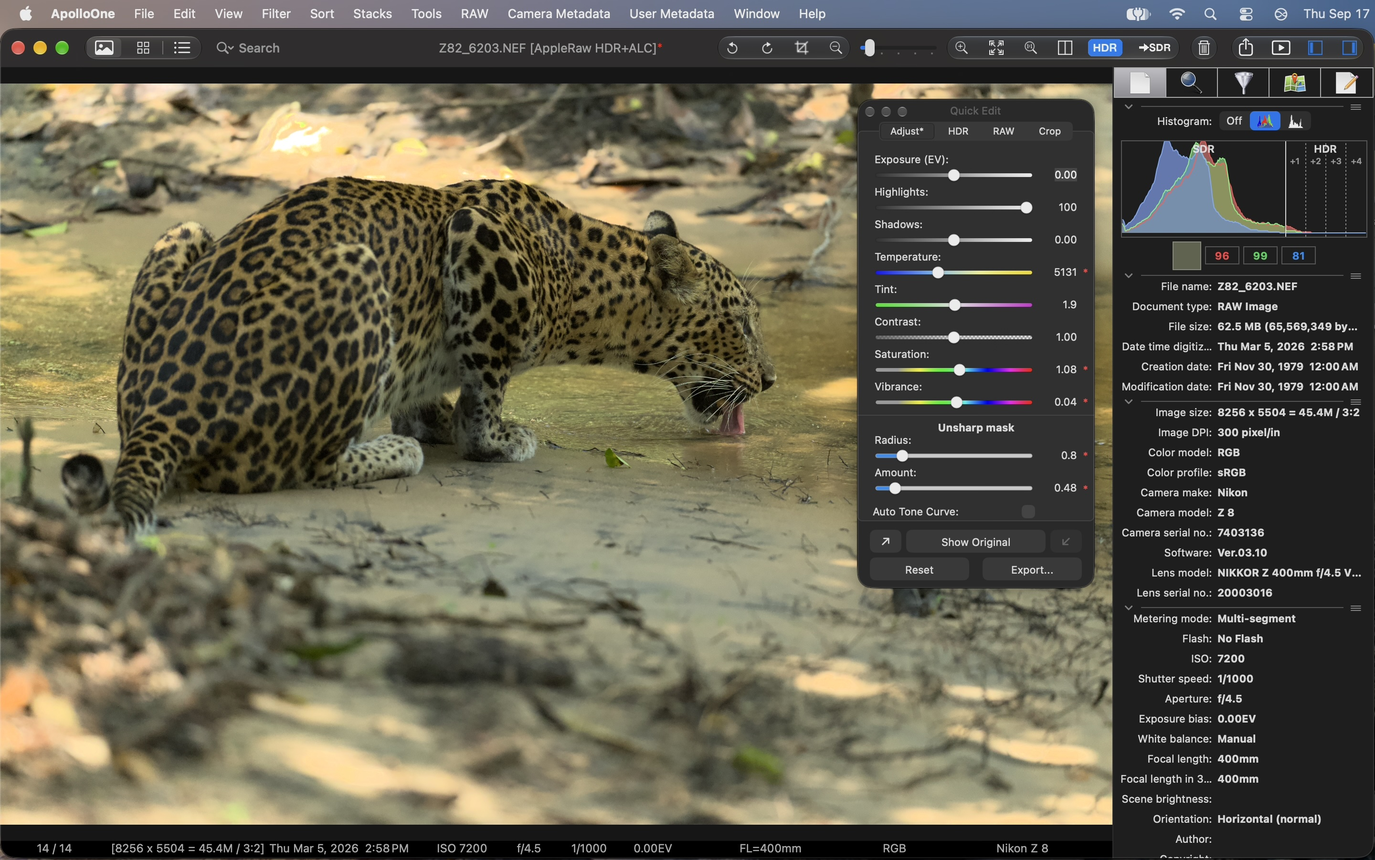
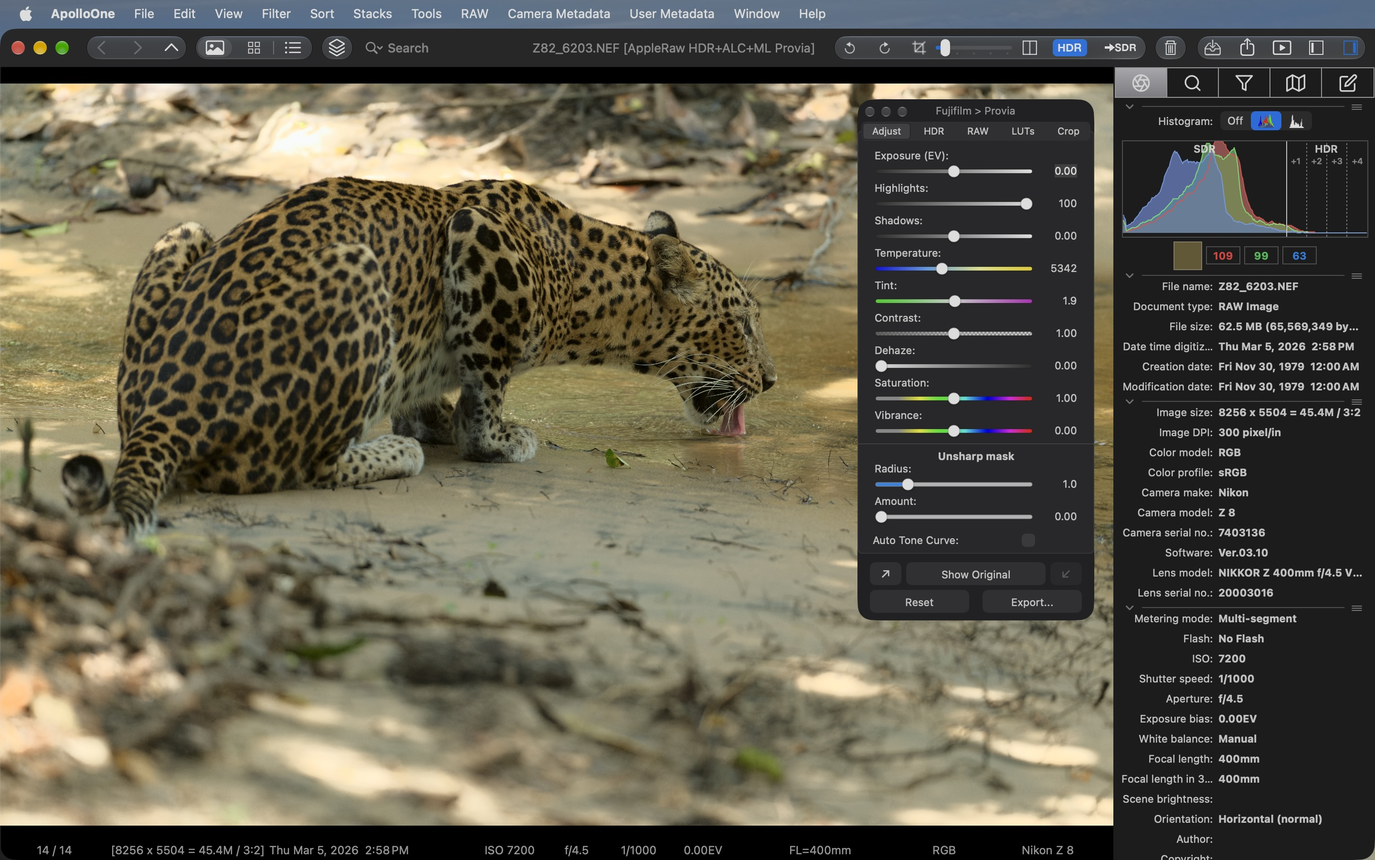
ApolloOne page: new Quick Edit screenshot with the 5.2 tab row (Albert msgs 42736, 42753 "I just need a new QE panel with the updated tabs", 42759 "That's it thanks")
Same window as the September shot (Shane Dias's leopard, Z82_6203.NEF, HDR on, Inspector with the histogram), recaptured in ApolloOne 5.2.0 (6226): Quick Edit on its Adjust page now shows the Adjust / HDR / RAW / LUTs / Crop tabs and the Dehaze slider, and the photo carries the Provia film simulation (his Default LUT). HDR gain-map JPEG, 2880x1802, written through ApolloOne's own Ultra HDR signalling code. Same filename, so the img gets ?v=6226.

diff --git a/apolloone.html b/apolloone.html
@@ -101,7 +101,7 @@
         <p><strong>LUTs</strong> give a photo or video a new look, and a <strong>recipe</strong> saves a LUT with your adjustments for other photos. Fujifilm's free LUTs give RAW files from any camera a Fujifilm film simulation, in SDR and HDR. <a href="apolloone-free-luts.html">Free LUTs for ApolloOne</a>.</p>
     </div>
     <div class="feature-image">
-        <img src="images/apolloone-quick-edit2.jpg?v=5810" alt="ApolloOne Quick Edit panel with adjustment sliders and histogram" loading="lazy">
+        <img src="images/apolloone-quick-edit2.jpg?v=6226" alt="ApolloOne Quick Edit panel with adjustment sliders and histogram" loading="lazy">
     </div>
 </section>
 
